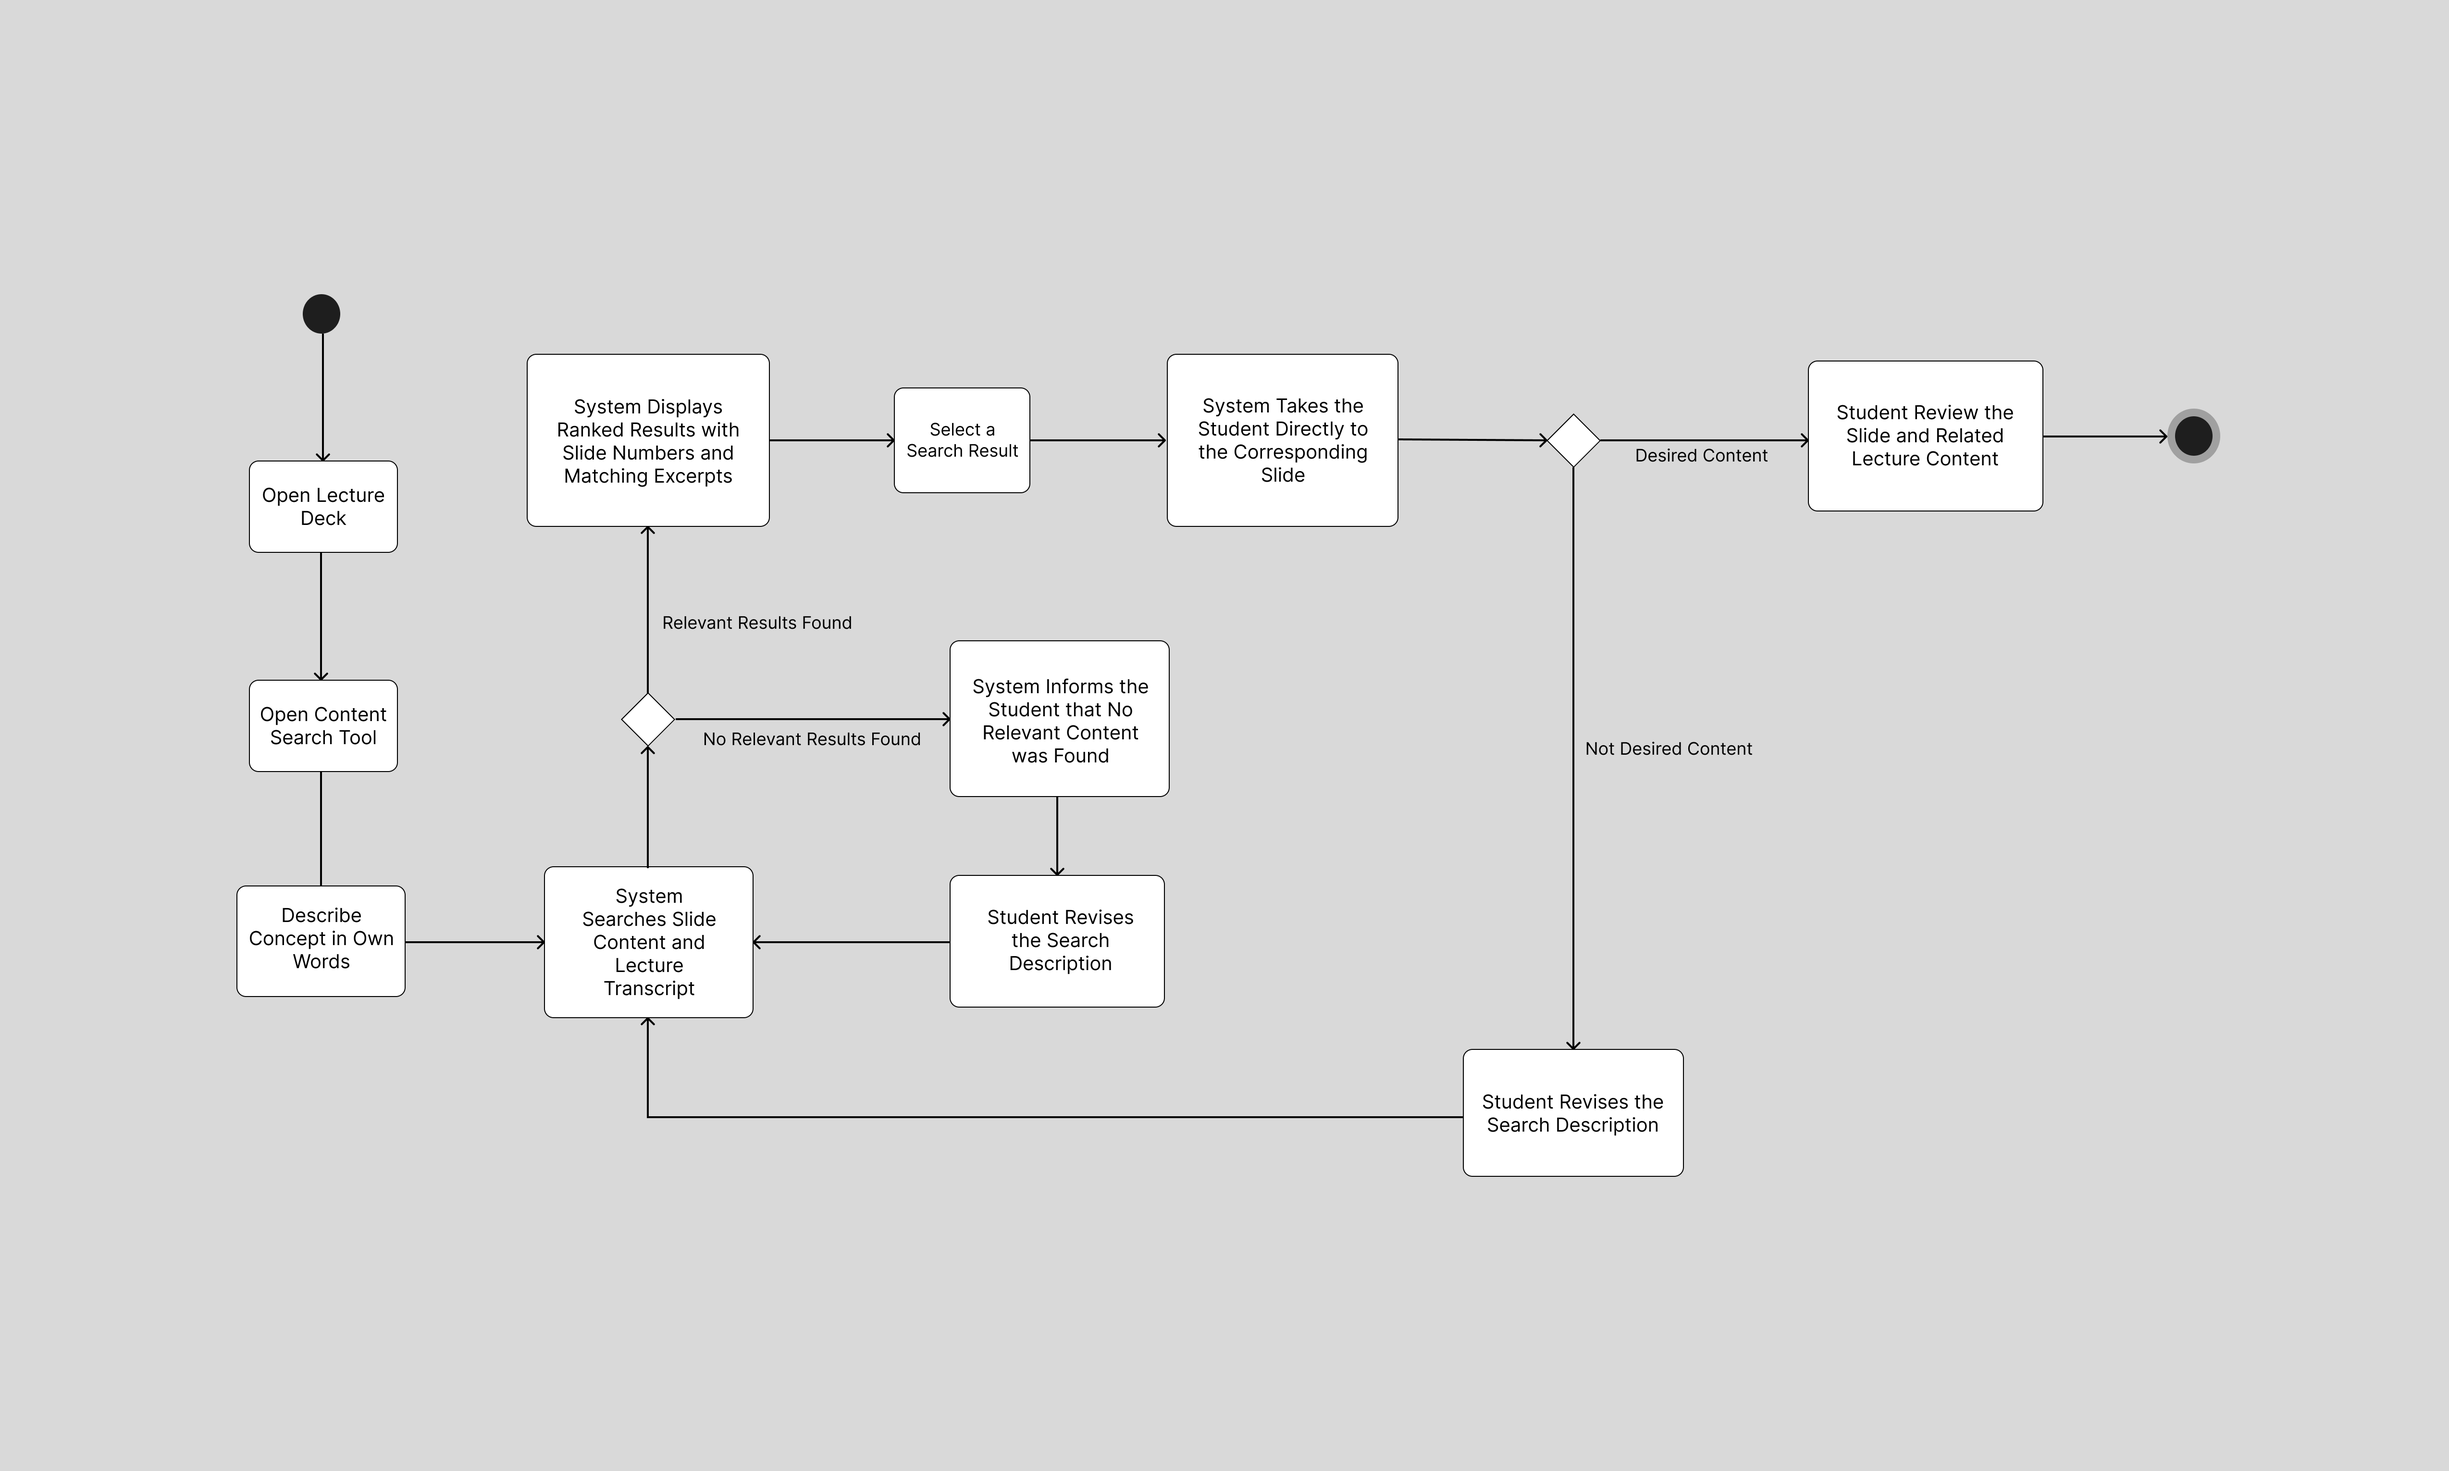
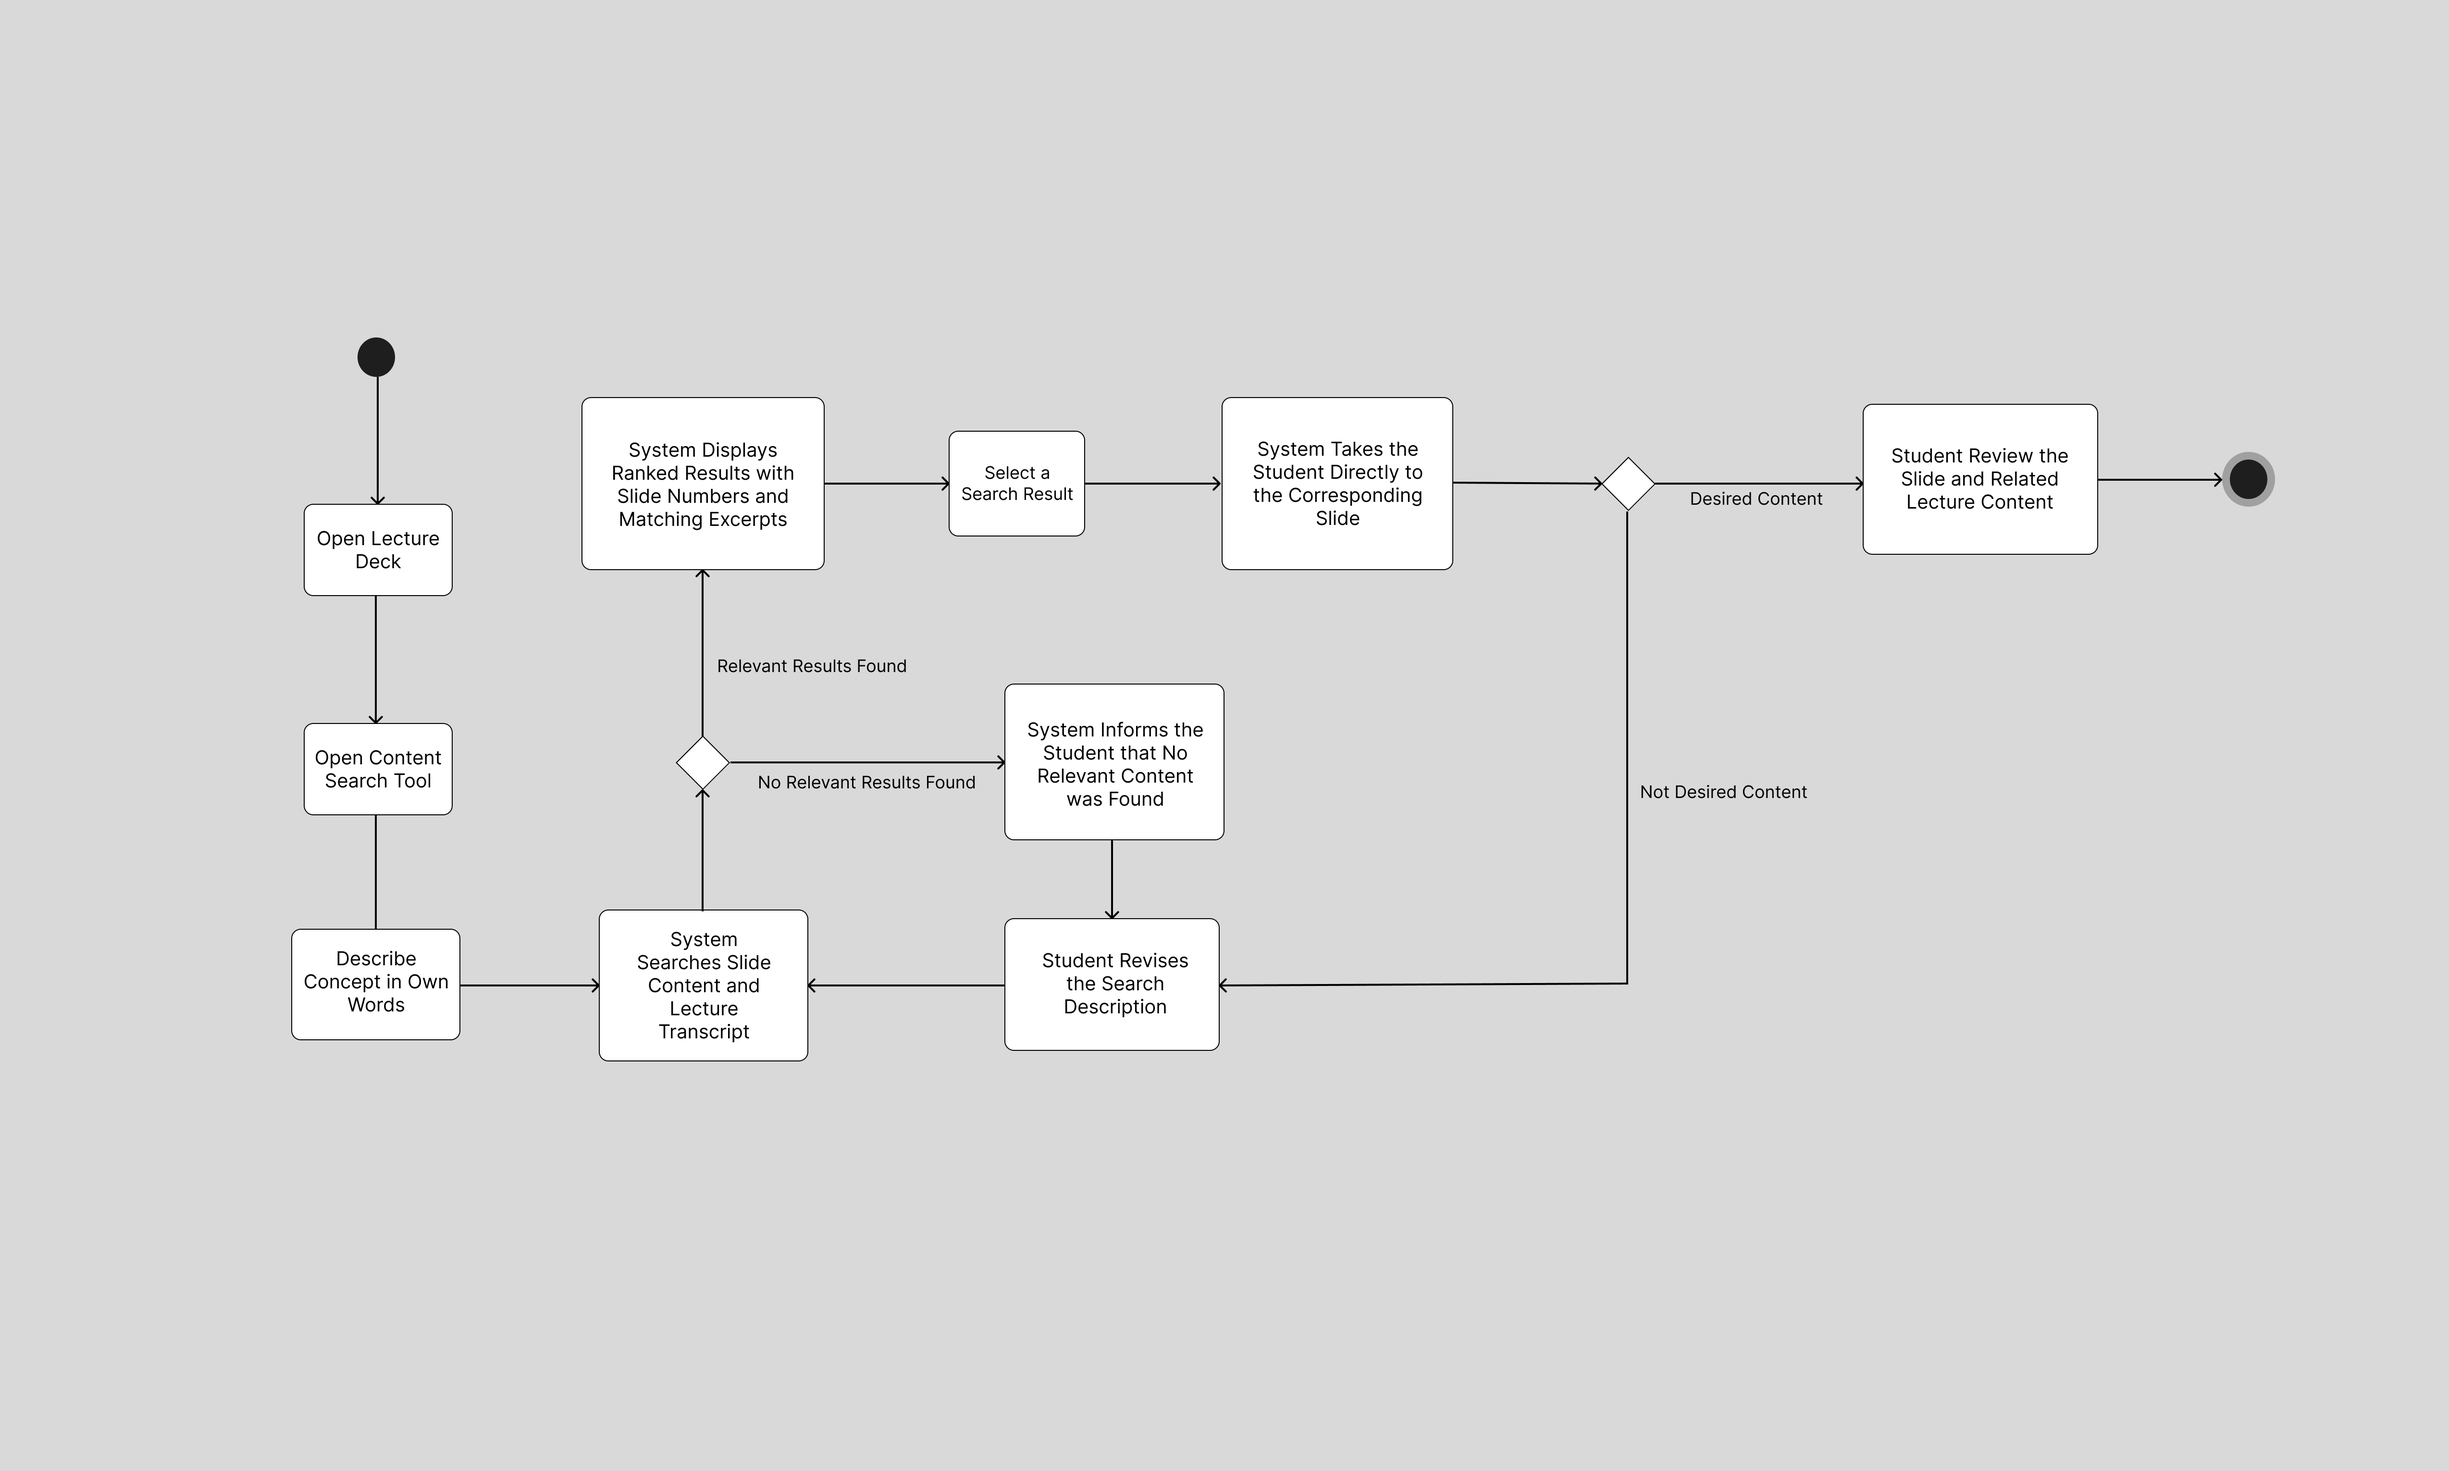
Updated content aware slide search diagram, added instructor activity diagrams

diff --git a/README.md b/README.md
@@ -94,6 +94,18 @@ Our proposal focuses on improving the post-lecture experience. Instructors can r
 
 ## Activity Diagrams
 
+### Instructor: Single-Slide Editing
+
+**User story:** As an instructor, I want to select an individual slide and give the AI a specific editing instruction while allowing it to use the full lecture transcript as context so that the revised slide remains consistent with the lecture.
+
+![Single-slide editing activity diagram](images/activity-diagrams/singleslideedit.png)
+
+### Instructor: Multi-Slide Editing
+
+**User story:** As an instructor, I want to select multiple slides and apply one AI editing instruction to all of them while allowing the system to use the full lecture transcript as context so that related slides are revised consistently.
+
+![Multi-slide editing activity diagram](images/activity-diagrams/multislideedit.png)
+
 ### Student: Content-Aware Slide Search
 
 **User story:** As a student, I want to describe a concept in my own words and be directed to the relevant slide so that I can find information without remembering the exact wording used in the deck.
